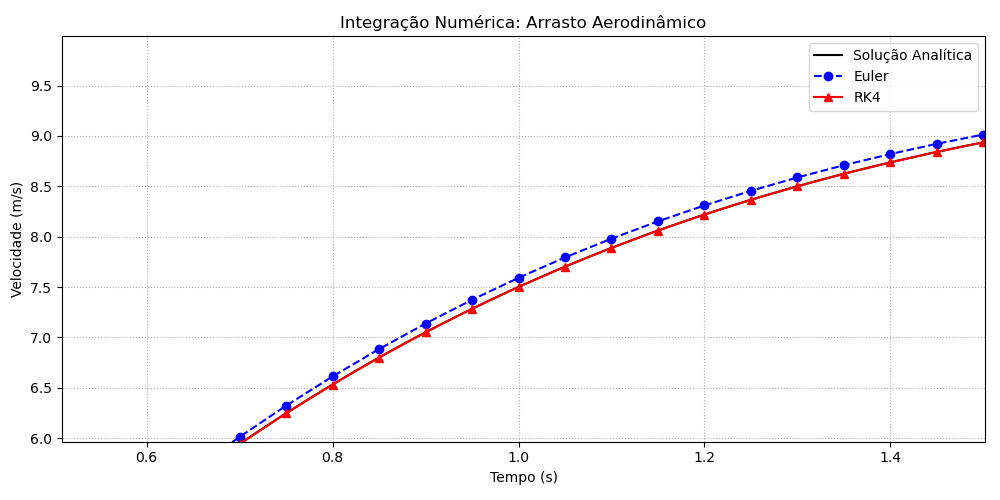
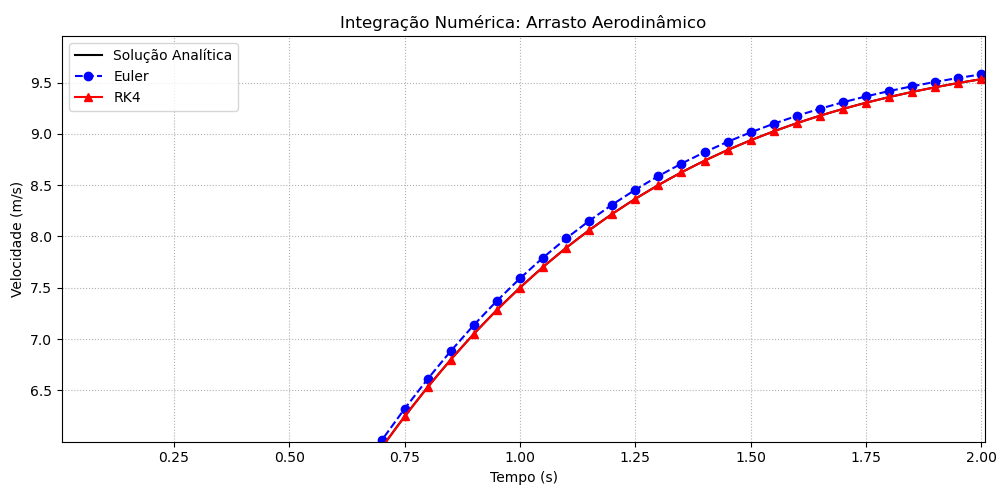
last changes before delivery

diff --git a/EDO_RK4_Euler.py b/EDO_RK4_Euler.py
@@ -12,7 +12,7 @@ def sol_analitica(t):
     return np.sqrt(g / alpha) * np.tanh(np.sqrt(g * alpha) * t)
 
 # Parâmetros de simulação
-t0, tf = 0.0, 3.5 # Intervalo de tempo para simulação
+t0, tf = 0.0, 5.85 # Intervalo de tempo para simulação
 h = 0.05 # Passo de tempo
 v0 = 0.0 # Velocidade inicial (m/s)
 t_vals = np.arange(t0, tf + h, h)
@@ -65,4 +65,18 @@ plt.ylabel('Velocidade (m/s)')
 plt.legend()
 plt.grid(True, ls=':')
 plt.tight_layout()
+
+# Segundo plot separado da função principal f(t, v) = g - alpha*v^2
+plt.figure(figsize=(8, 5))
+v_plot = np.linspace(0, max(v_exato) * 1.1, 300)
+f_plot = f(0, v_plot)
+plt.plot(v_plot, f_plot, 'm-', linewidth=2, label='f(t, v) = g - alpha*v^2')
+plt.title('Função Principal')
+plt.xlabel('Velocidade v (m/s)')
+plt.ylabel('f(t, v) (m/s²)')
+plt.axhline(0, color='gray', linewidth=1, linestyle='--')
+plt.legend()
+plt.grid(True, ls=':')
+plt.tight_layout()
+
 plt.show()